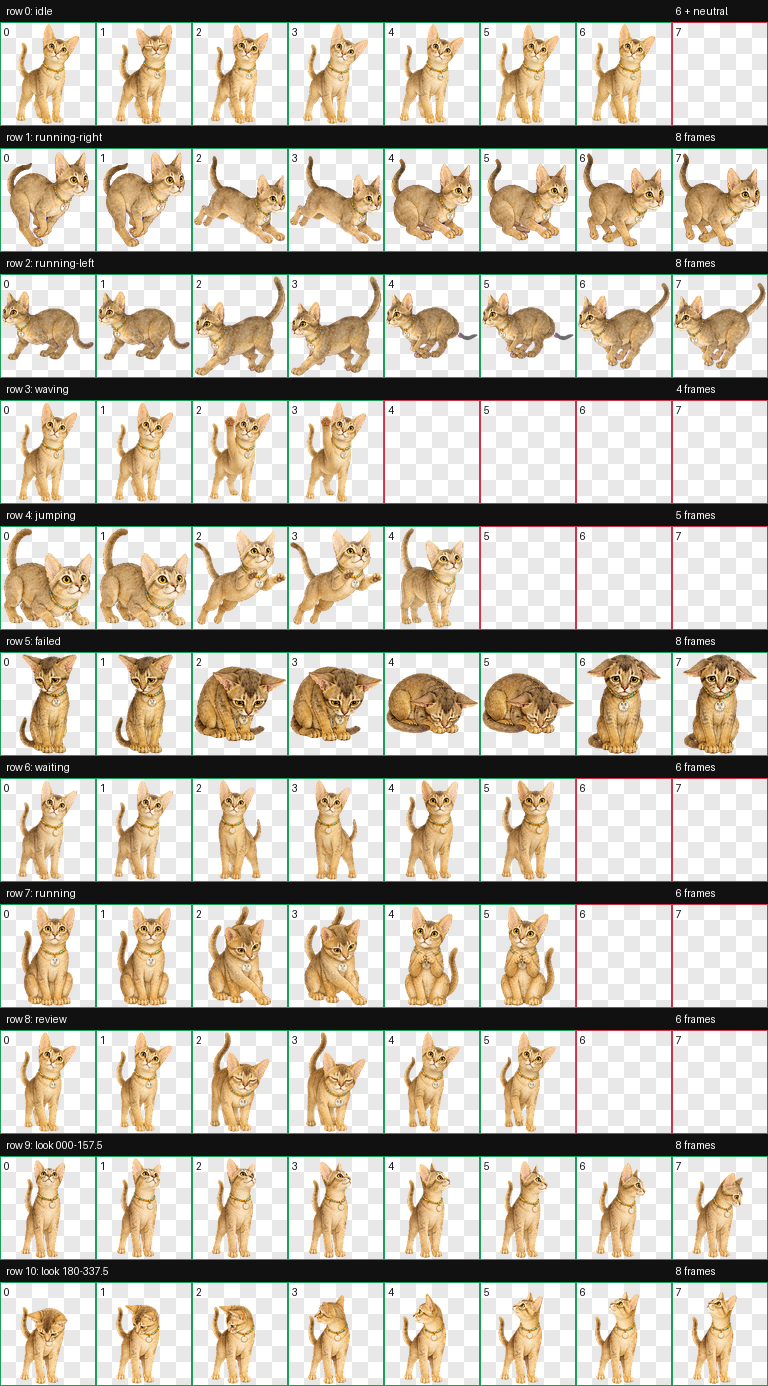
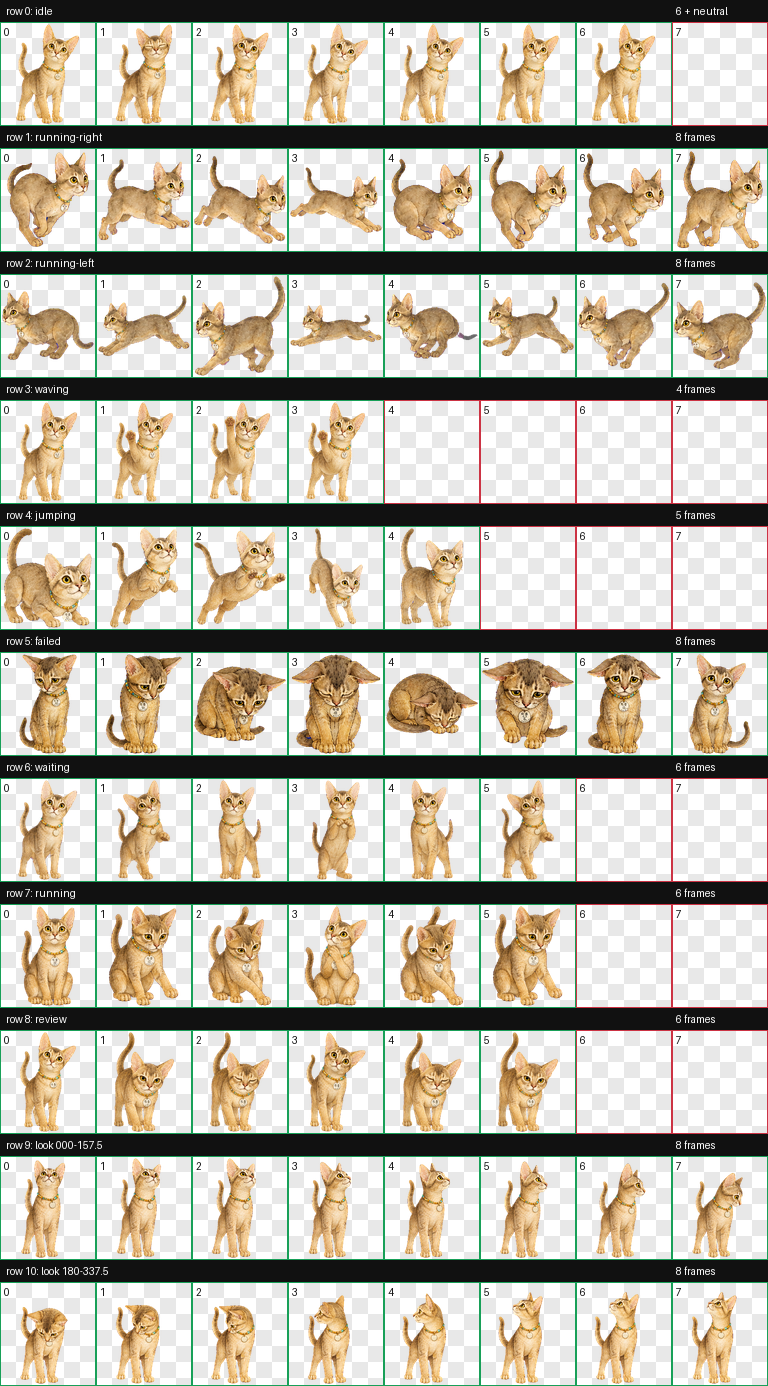
Refine BIUE transitions without distortion

diff --git a/README.md b/README.md
@@ -35,7 +35,7 @@ BIUE (小布鲁) is a blue Abyssinian cat whose dilute blue coat reads as a dist
 | --- | --- | --- |
 | Preserve character identity | Stable face, coat, proportions, collar, and name tag across every state | BIUE remains recognizable throughout the atlas |
 | Communicate Codex activity | Separate idle, movement, greeting, jumping, failure, waiting, working, and review loops | The pet reacts naturally to task state changes |
-| Keep motion readable | Hold each major action pose across adjacent frames | A relaxed cadence with clearer gestures and expressions |
+| Keep motion readable | Sequence adjacent original frames into continuous loops | Fine transitions without interpolation or shape distortion |
 | Support pointer-aware attention | Sixteen clockwise look poses in 22.5° steps | Smooth directional attention around the pet |
 | Ship a clean package | Transparent WebP, v2 manifest, previews, and deterministic validation | A small, auditable repository ready for local installation |
 
@@ -73,7 +73,7 @@ The [`previews`](previews/) directory also includes left/right movement, jumping
 | Grid | 8 columns × 11 rows |
 | Cell dimensions | 192 × 208 px |
 | Standard states | 9 |
-| Action pacing | Relaxed two-frame key-pose holds |
+| Action pacing | Lossless adjacent-frame smooth loops |
 | Look directions | 16, clockwise in 22.5° steps |
 | Transparency | RGBA WebP |
 | Manifest | `pet.json` with `spriteVersionNumber: 2` |

diff --git a/README_zh.md b/README_zh.md
@@ -34,7 +34,7 @@
 | --- | --- | --- |
 | 保持角色一致性 | 在所有动作中固定脸型、毛色、比例、项圈和名字牌 | 每个状态都能认出是小布鲁 |
 | 表达 Codex 工作状态 | 分离待机、移动、招手、跳跃、失败、等待、执行和审查动作 | 宠物会自然响应任务状态变化 |
-| 提升动作可读性 | 让主要动作姿势在相邻两帧中连续停留 | 节奏更舒缓，手势和表情更容易看清 |
+| 提升动作可读性 | 使用相邻原始帧组成连续回环 | 过渡更细腻，不插值、不拉伸、不变形 |
 | 支持指针方向感知 | 以 22.5° 为步长提供 16 个顺时针注视方向 | 视线可以围绕宠物平滑移动 |
 | 提供干净发布包 | 透明 WebP、v2 清单、动作预览和确定性验证 | 仓库精简、可检查、可直接本地安装 |
 
@@ -70,7 +70,7 @@
 | 网格 | 8 列 × 11 行 |
 | 单帧尺寸 | 192 × 208 px |
 | 标准状态 | 9 种 |
-| 动作节奏 | 舒缓的双帧关键姿势停留 |
+| 动作节奏 | 无损相邻帧平滑回环 |
 | 环视方向 | 16 个，以 22.5° 为步长顺时针排列 |
 | 透明格式 | RGBA WebP |
 | 清单文件 | `pet.json`，包含 `spriteVersionNumber: 2` |
